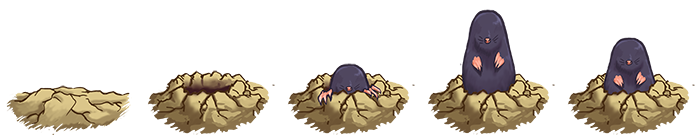
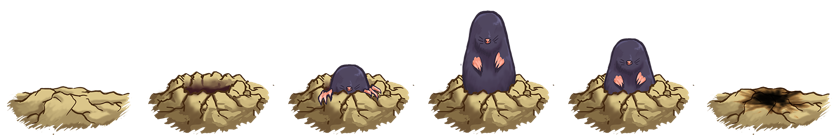
Adding mole surrender state

diff --git a/game/prefabs/mole.js b/game/prefabs/mole.js
@@ -15,6 +15,7 @@ var Mole = function(game, x, y, frame) {
   this.animations.add('initial', [0, 1, 2, 3, 4], 10);
   this.animations.add('popup', [1, 2, 3, 4], 10);
   this.animations.add('popdown', [4, 3, 2, 1], 10);
+  this.animations.add('surrender', [5], 1);
 
   this.create();
 };
